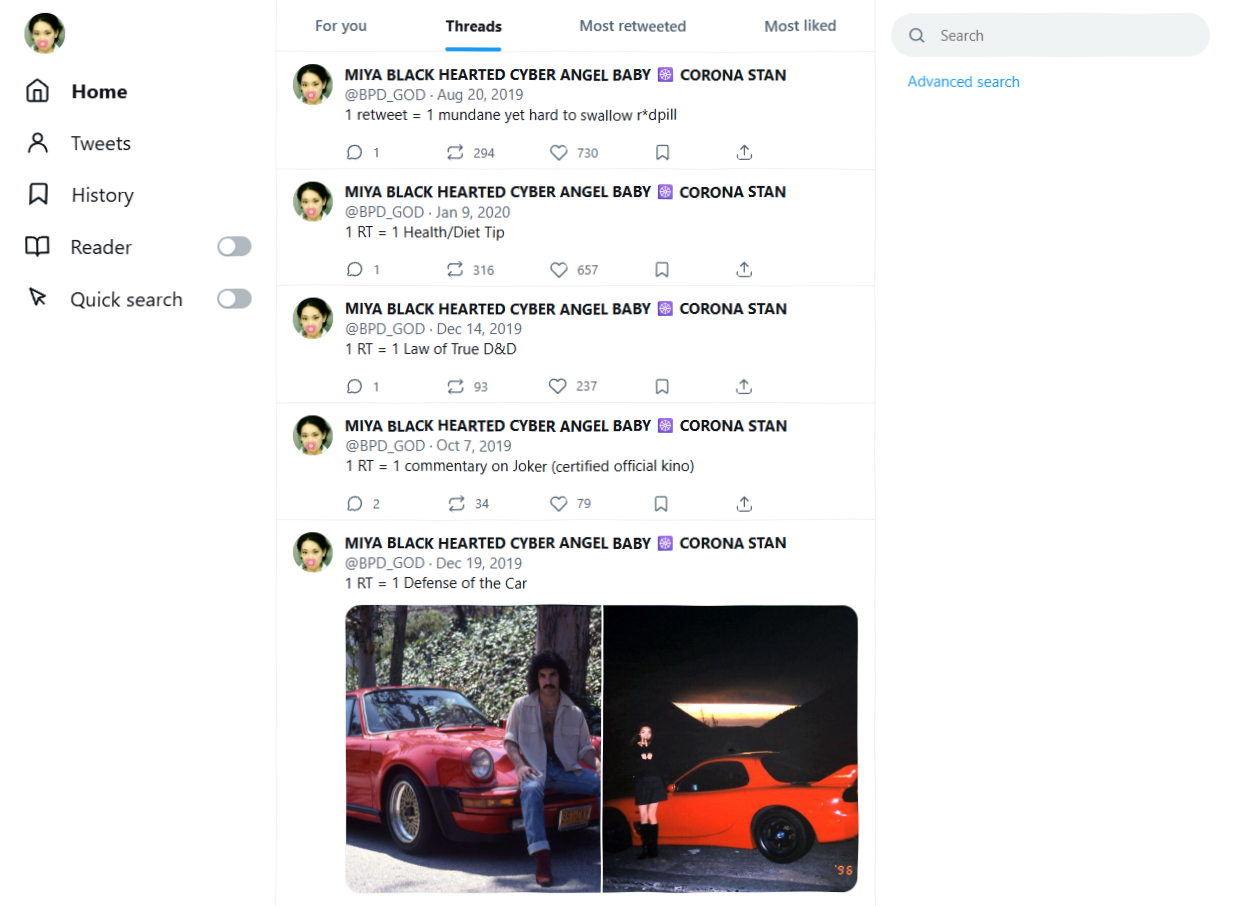
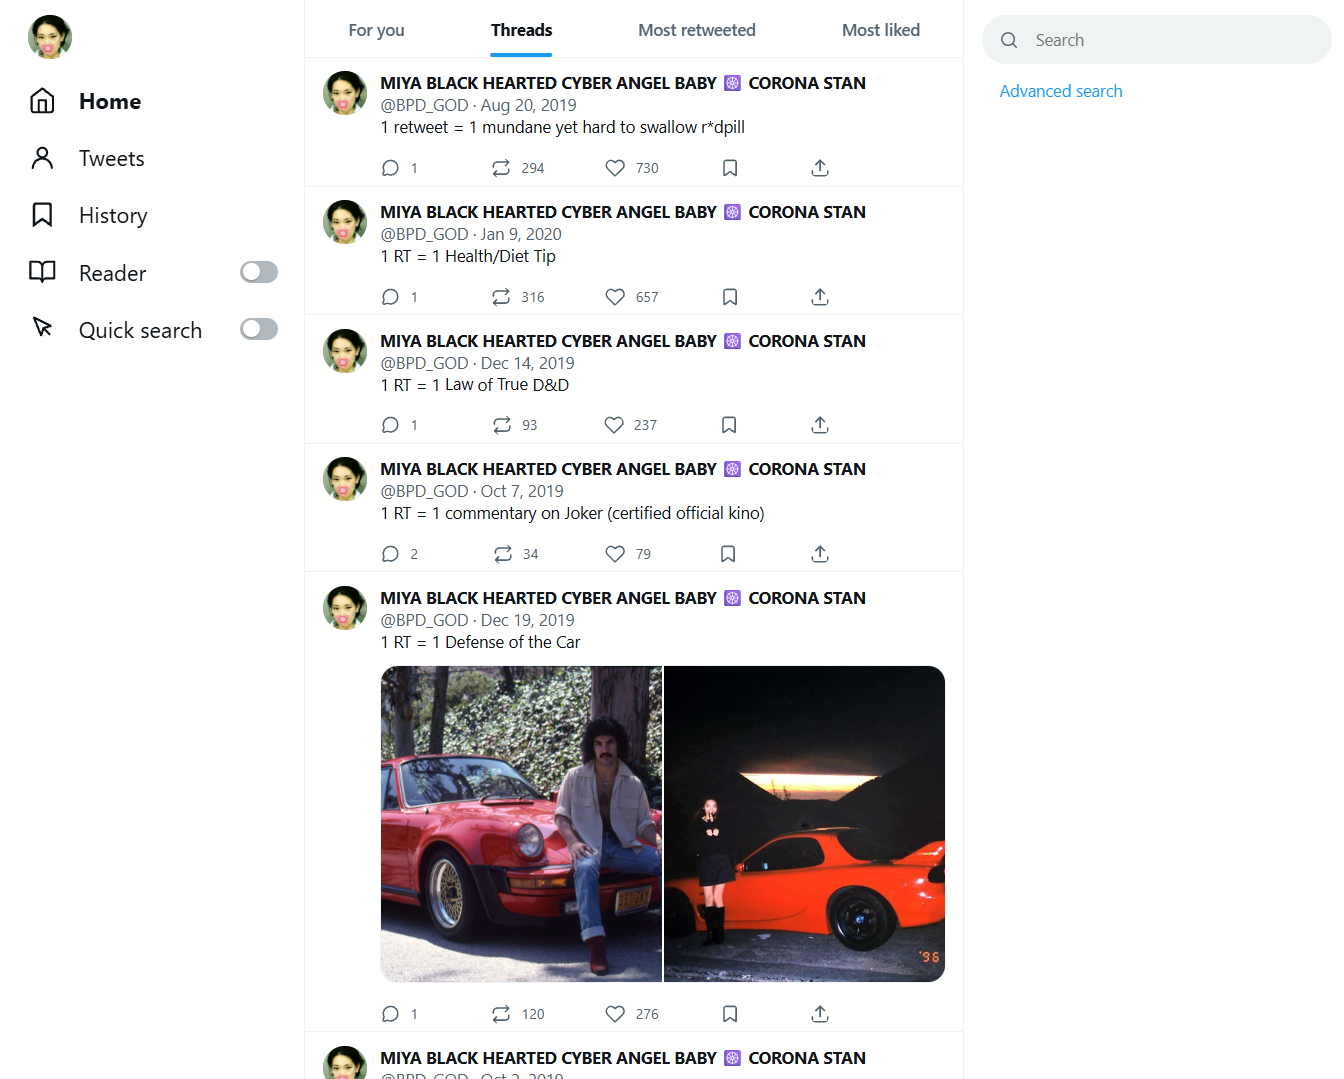
Update README

diff --git a/README.md b/README.md
@@ -10,9 +10,11 @@ The standalone build is a single zip download requiring no installation or confi
 
 ## Features
 
-* Filter and sort searches by year, photos and video, likes, retweets, and tweet type
+* Advanced search with a query language, filters, and sorting
+* Reader mode for distraction-free reading
+* Quick search — click any word in a tweet to search for it
 * Like and bookmark tweets to find them again later
-* Download a thread as a PDF
+* Download any thread as a PDF
 
 ## Run from source
 
